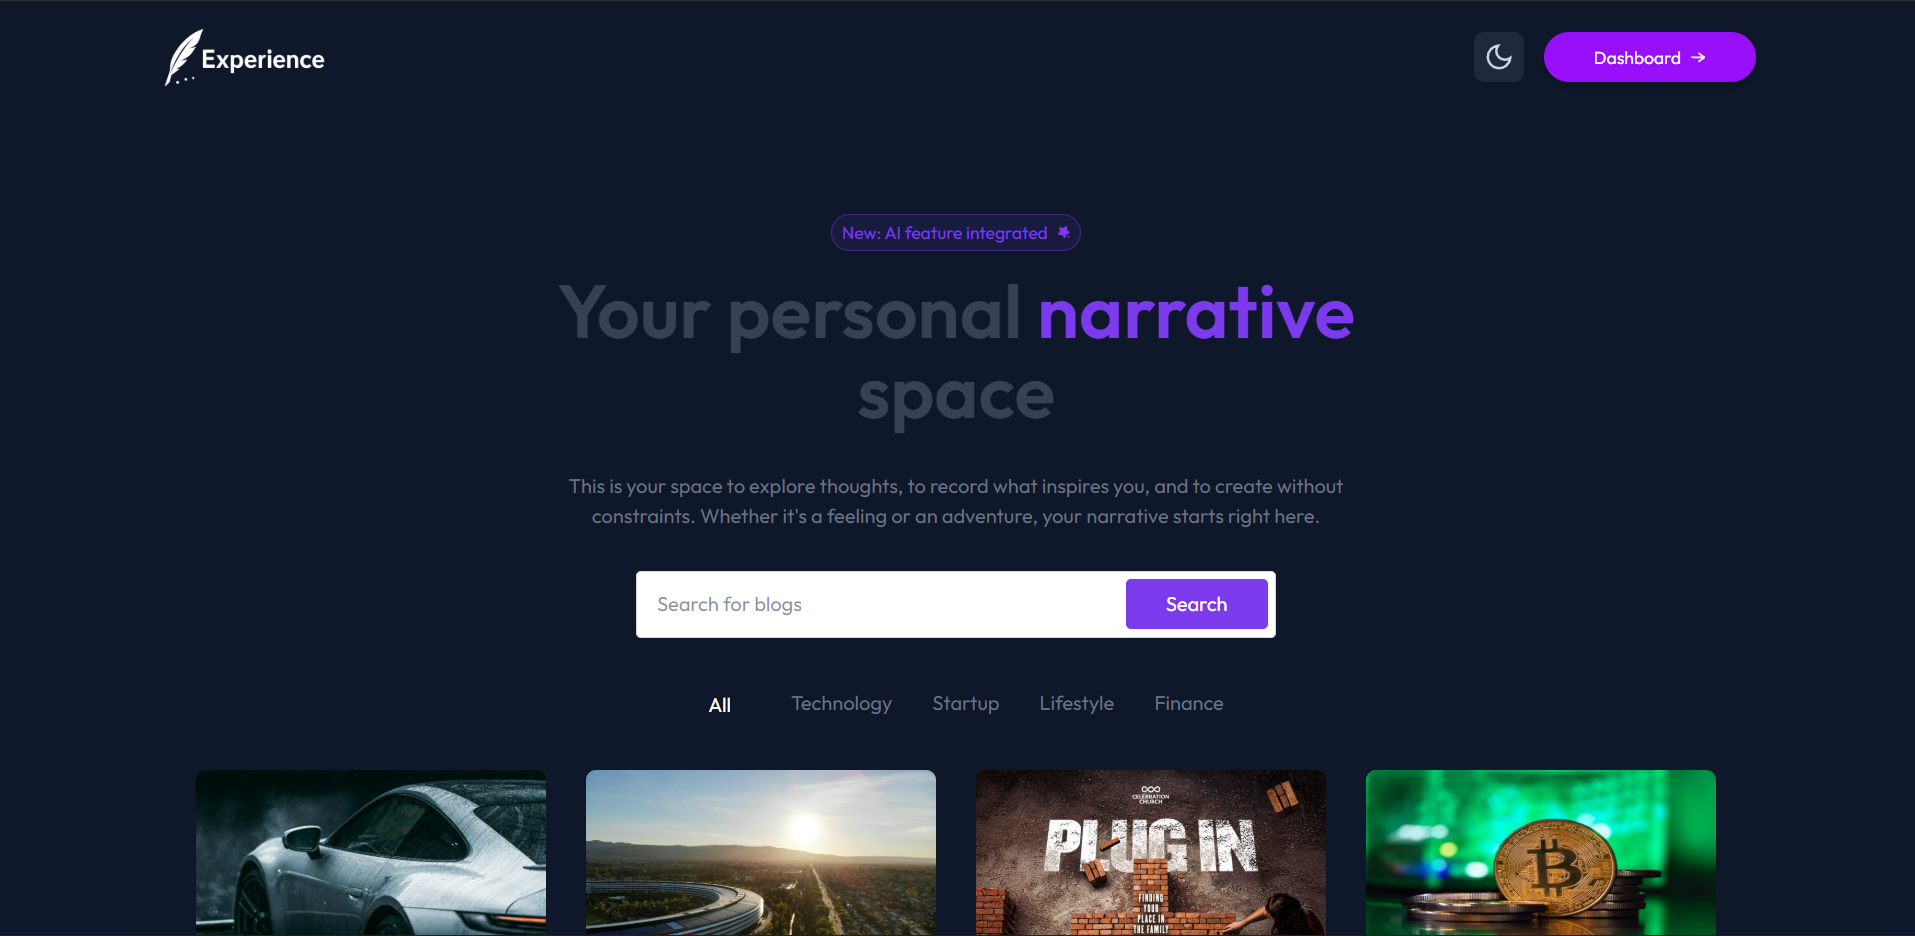
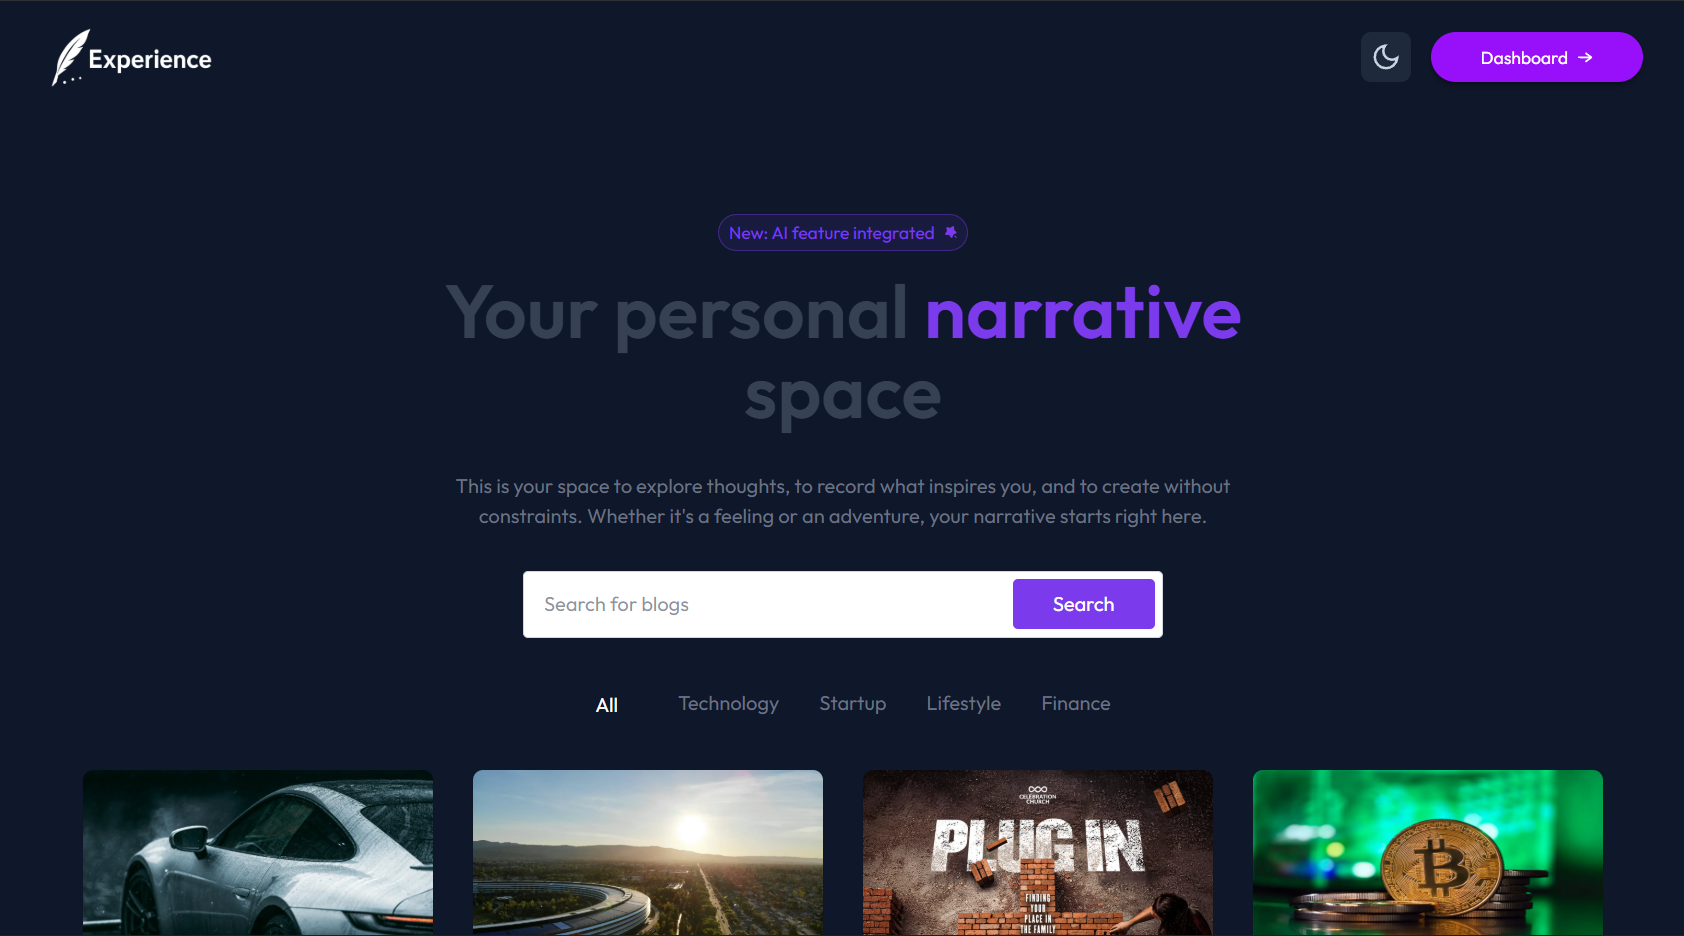
Refactor code structure for improved readability and maintainability

diff --git a/src/sections/Projects.tsx b/src/sections/Projects.tsx
@@ -5,6 +5,8 @@ import thinkBoard from "@/assets/images/ThinkBoard - Google Chrome.png";
 import automatedMarketMaker from "@/assets/images/AMM.png";
 import highStackers from "@/assets/images/HighStackers.png";
 import experienceDiaryScreenshot from "@/assets/images/experience-diary.png";
+import wagmiClinic from "@/assets/images/WAGMI Clinic hero page.png";
+import subwiseProtocol from "@/assets/images/subwise protocol.png";
 import Image from "next/image";
 import CheckCircleIcon from "@/assets/icons/check-circle.svg";
 import ArrowUpRightIcon from "@/assets/icons/arrow-up-right.svg";
@@ -12,6 +14,50 @@ import SectionHeader from "@/components/SectionHeader";
 import { Card } from "@/components/Cards";
 
 const portfolioProjects = [
+  {
+    company: "BNB Chain Hackathon",
+    year: "2026",
+    title: "Wagmi Clinic — AI Emergency Room for Degen Wallets",
+    results: [
+      {
+        title:
+          "AI-powered wallet diagnosis with savage roasts & real recovery strategies",
+      },
+      {
+        title:
+          "Soulbound Token minting — permanent on-chain medical records (ERC-721)",
+      },
+      {
+        title:
+          "Built on BNB Chain with Next.js 16, Wagmi v2 & Clinical Brutalism design",
+      },
+    ],
+    link: "https://wagmi-clinic.vercel.app/",
+    image: wagmiClinic,
+  },
+
+  {
+    company: "Cronos x402 Hackathon",
+    year: "2026",
+    title: "SubWise Protocol — AI Subscription Management on Cronos",
+    results: [
+      {
+        title:
+          "Custom x402 facilitator contract for autonomous recurring pull-payments",
+      },
+      {
+        title:
+          "Claude-powered AI agent with market crash & inactivity protection",
+      },
+      {
+        title:
+          "Real-time dashboard with RainbowKit wallet integration & payment receipts",
+      },
+    ],
+    link: "https://subwise-protocol.vercel.app",
+    image: subwiseProtocol,
+  },
+
   {
     company: "Stacks AI Guild",
     year: "2025",

diff --git a/src/sections/Hero.tsx b/src/sections/Hero.tsx
@@ -138,7 +138,12 @@ export const HeroSection = () => {
             I&apos;m a{" "}
             <span className="inline-block w-[168px] md:w-[188px] text-left whitespace-nowrap">
               <ReactTyped
-                strings={["Frontend Developer", "Community Manager"]}
+                strings={[
+                  "Blockchain Engineer",
+                  "Clarity Developer",
+                  "Fullstack Developer",
+                  "Community Manager",
+                ]}
                 typeSpeed={100}
                 backSpeed={50}
                 backDelay={1500}
@@ -146,9 +151,8 @@ export const HeroSection = () => {
                 className="bg-gradient-to-r from-teal-300 to-cyan-400 text-transparent bg-clip-text font-semibold"
               />
             </span>{" "}
-            who specializes in transforming designs into functional,
-            high-performing web applications. Let&apos;s discuss your next
-            project.
+            who builds smart contracts and fullstack dApps on Stacks (Bitcoin
+            L2) and beyond. Let&apos;s discuss your next project.
           </p>
         </div>
         <div className="flex flex-col md:flex-row md:justify-center items-center mt-8 gap-4">
